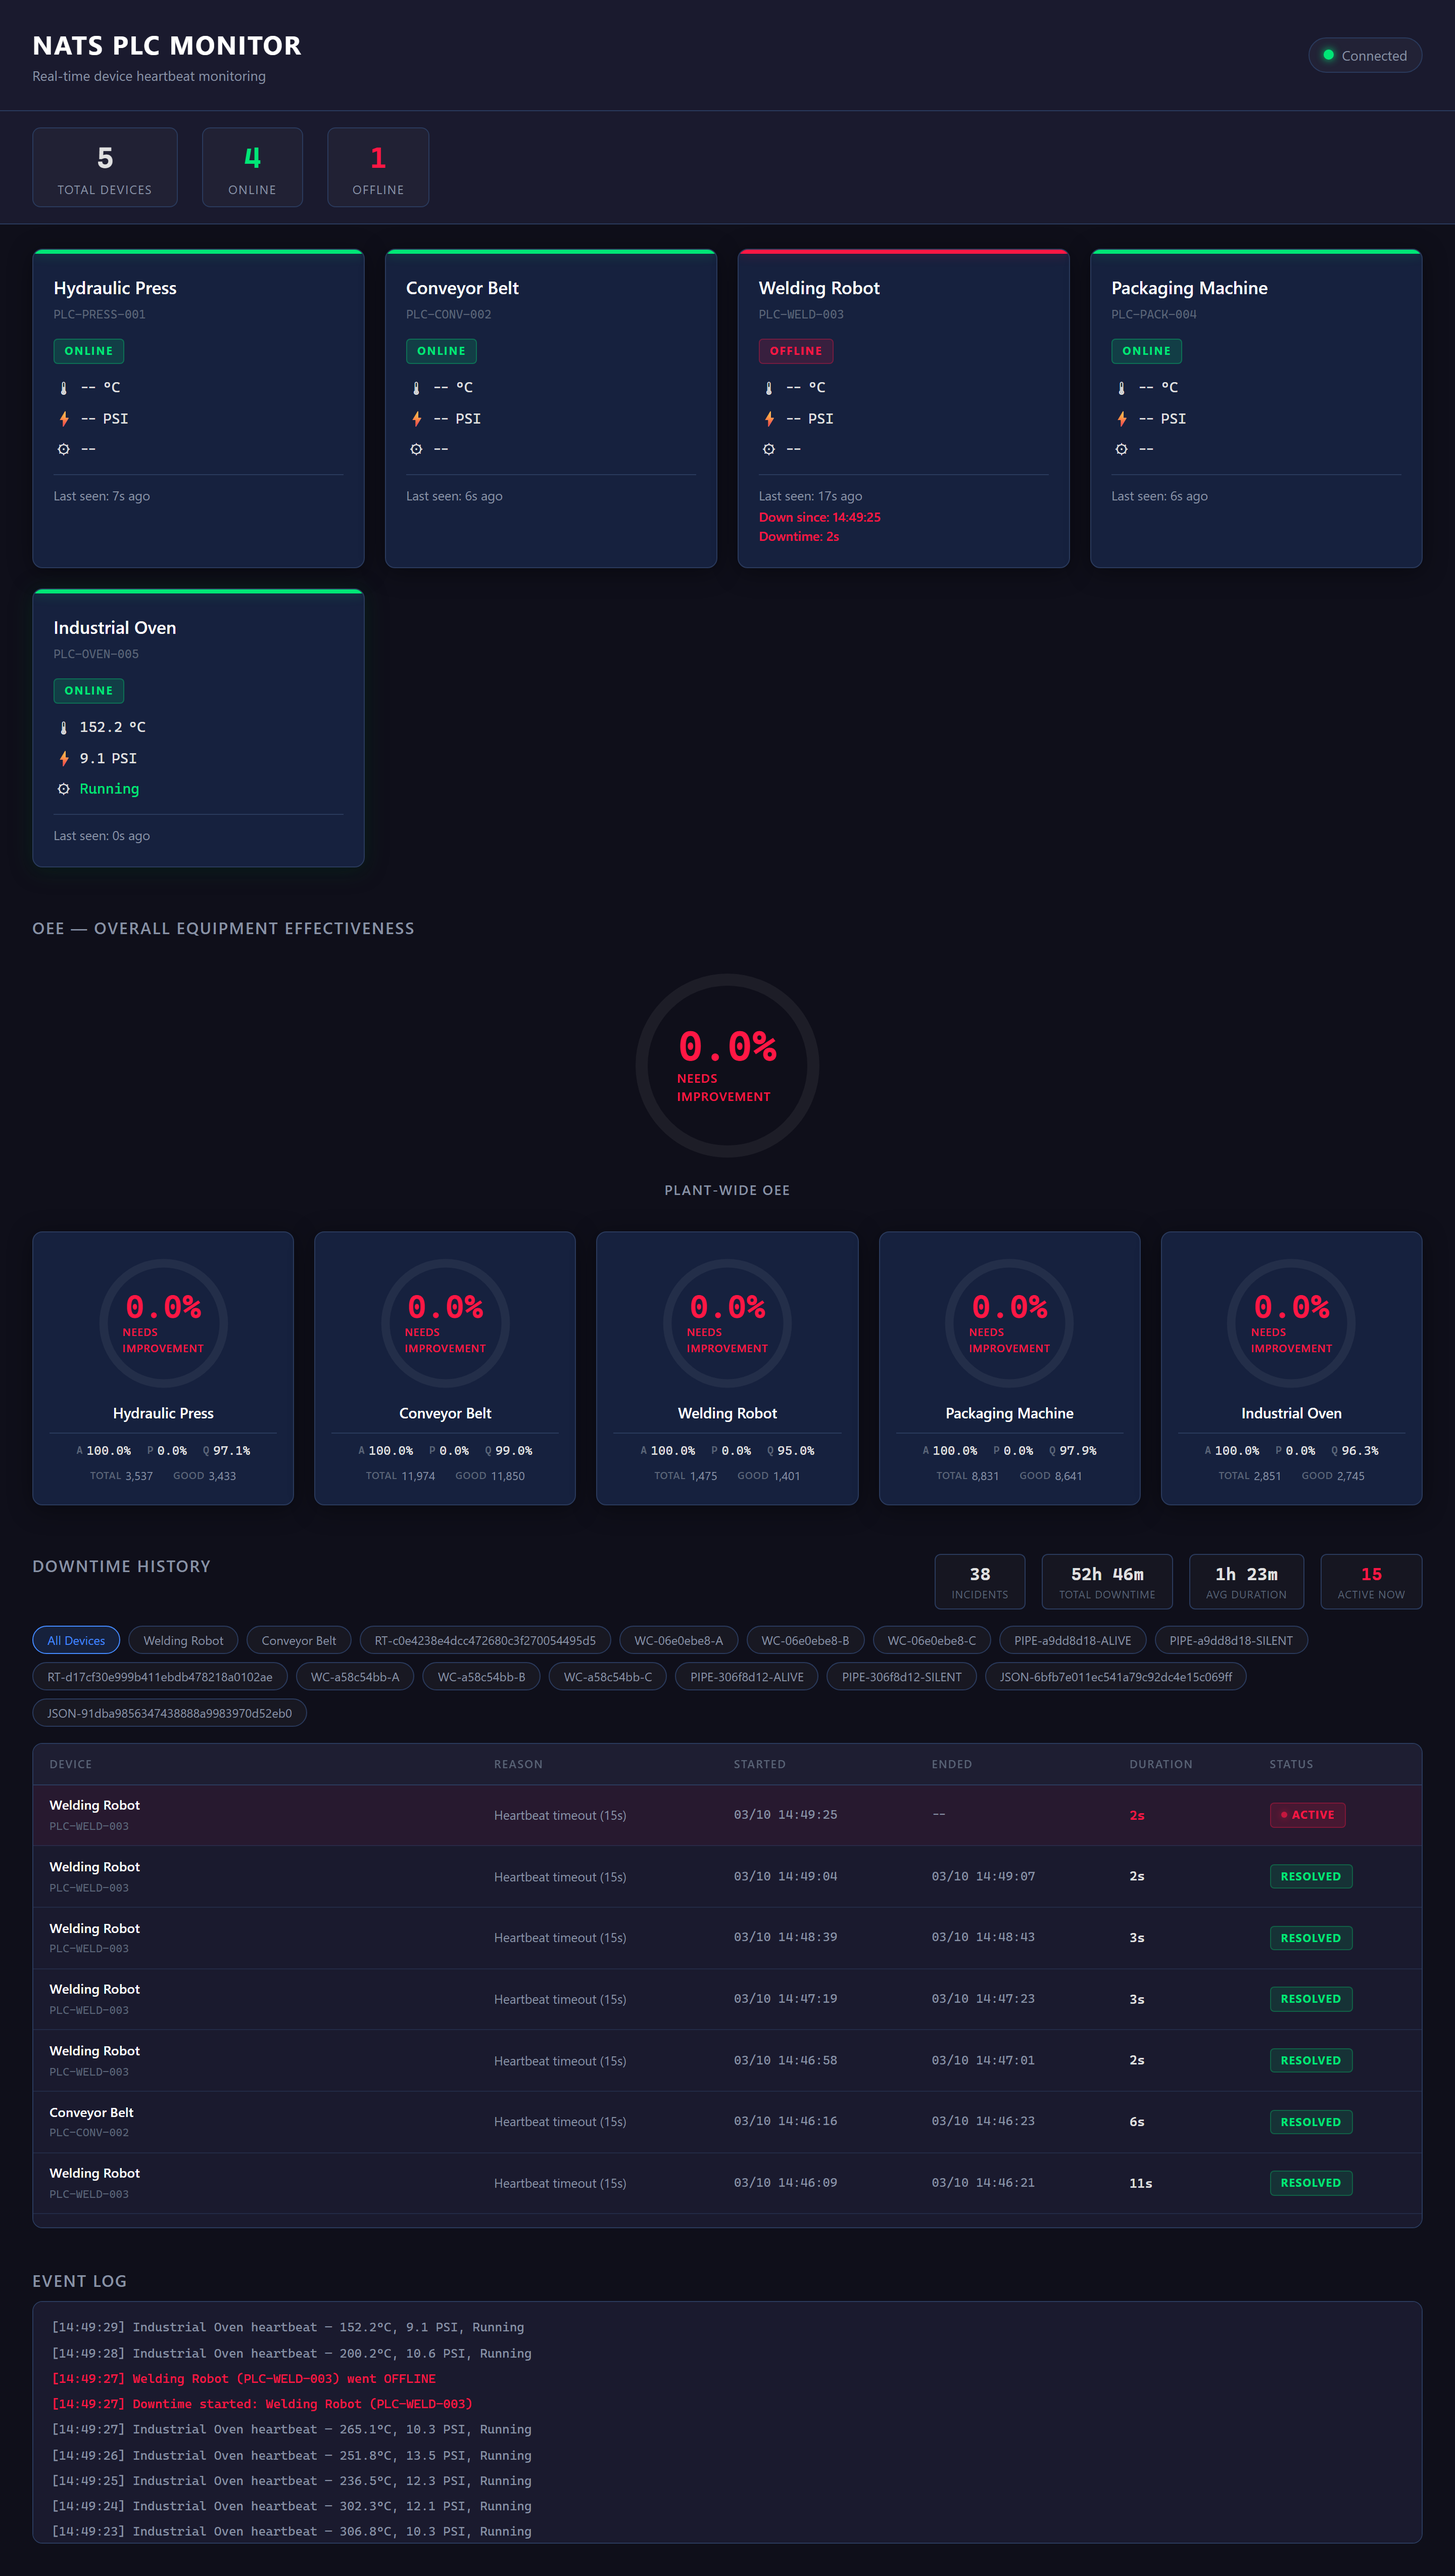
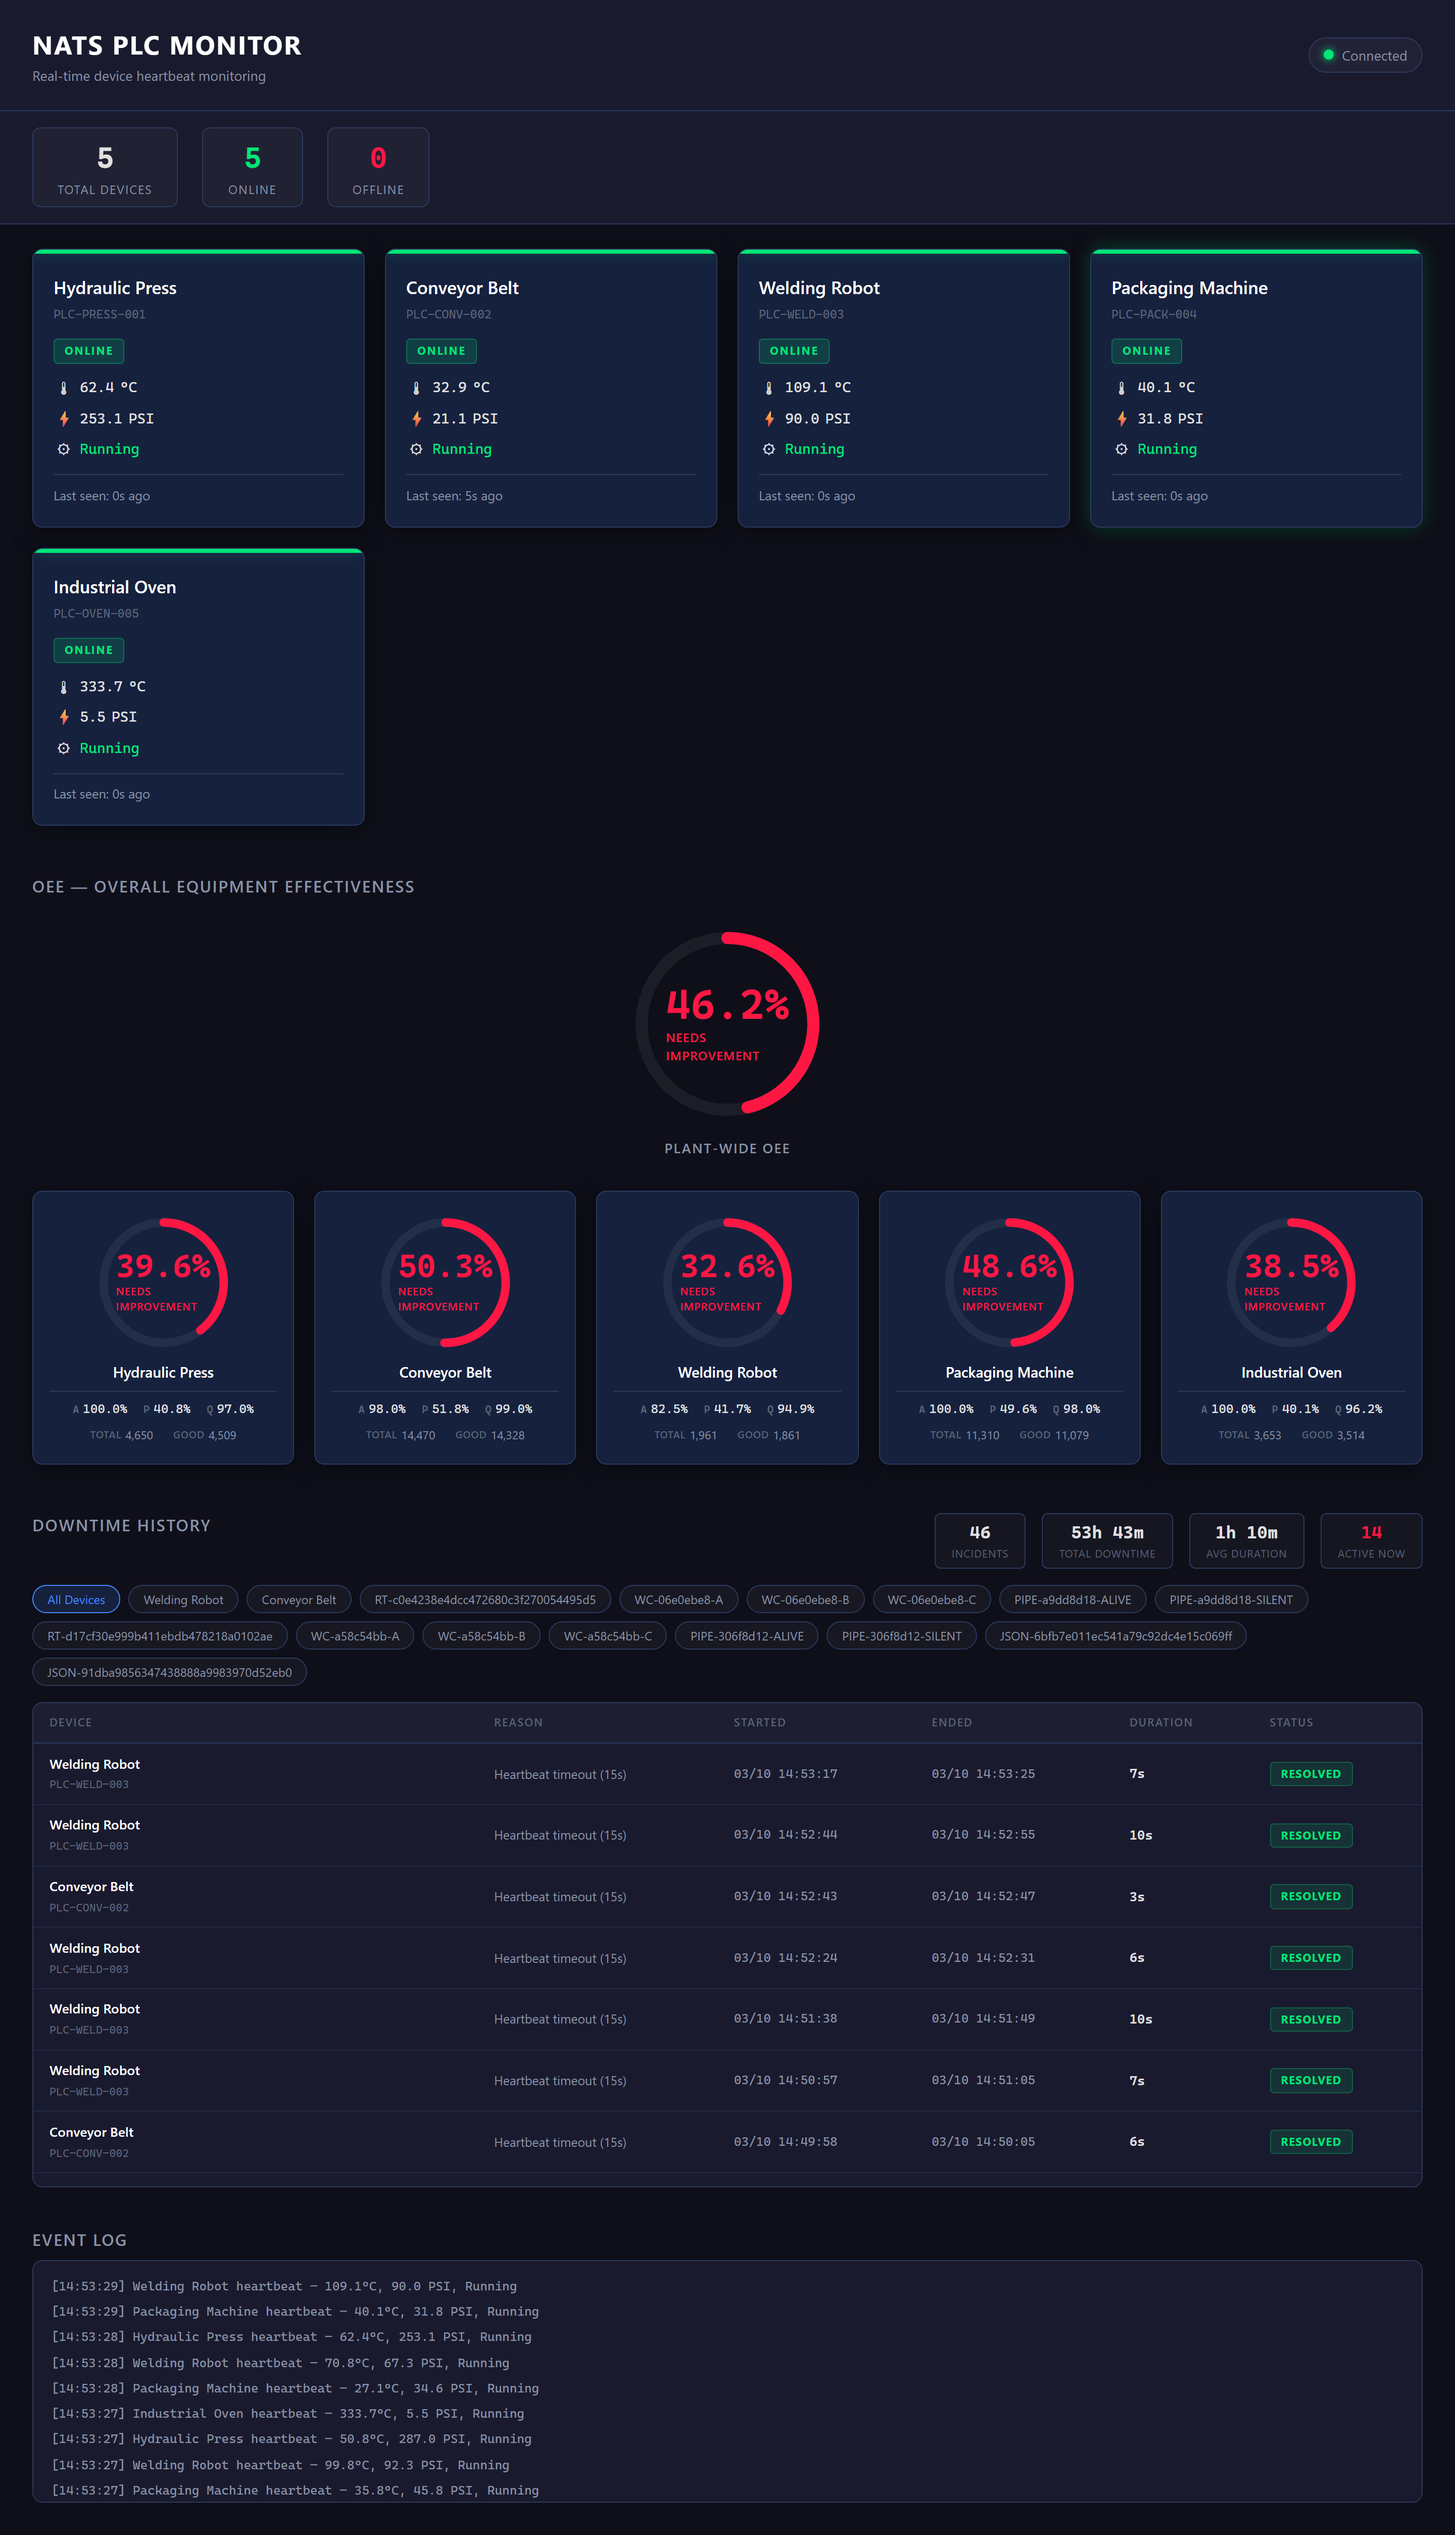
docs: retake screenshots with populated OEE data and event log

diff --git a/README.md b/README.md
@@ -96,6 +96,10 @@ You'll see the dashboard with live device status, downtime history, and OEE gaug
 
 ![Downtime History](docs/screenshots/downtime-history.png)
 
+**Event Log** — Live stream of system events (connections, heartbeats, status changes)
+
+![Event Log](docs/screenshots/event-log.png)
+
 To stop:
 
 ```bash
